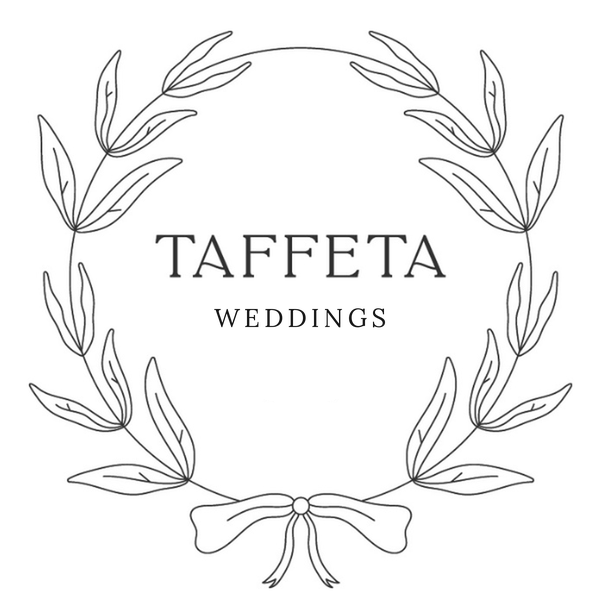
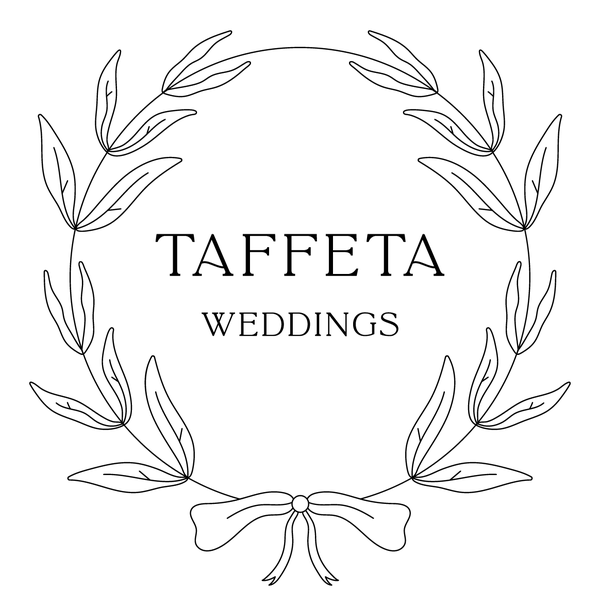
Bridal homepage: use the real Taffeta Weddings wreath
Claude-Session: https://claude.ai/code/session_01CftrBNeWMAXhAWPNKztdGf

diff --git a/weddings/index.html b/weddings/index.html
@@ -1032,7 +1032,7 @@ function renderHome(){
   const box=$("#view-home");if(!box||!ROLE)return;
   const name=myName(),first=String(name).trim().split(/\s+/)[0]||"",k=first.toLowerCase(),ph=lsGet(photoKey());
   const today=new Date().toLocaleDateString("en-US",{weekday:"long",month:"long",day:"numeric"});
-  let h='<div class="hhome"><button type="button" class="crest" id="hCrest" aria-label="'+(ph?"Change your photo":"Add your photo")+'">'+(ph?'<img class="me" alt="" src="'+ph+'">':'')+'<img class="w'+(ph?' over':'')+'" src="wreath-weddings.png" alt="Taffeta Weddings"></button>';
+  let h='<div class="hhome"><button type="button" class="crest" id="hCrest" aria-label="'+(ph?"Change your photo":"Add your photo")+'">'+(ph?'<img class="me" alt="" src="'+ph+'">':'')+'<img class="w'+(ph?' over':'')+'" src="wreath-weddings.png?v=2" alt="Taffeta Weddings"></button>';
   if(ROLE==="office"&&!name){
     h+='<div class="whois"><div class="hhi"><span>Who’s this?</span></div><div class="row">'+OFFICE_PEOPLE.map(n=>'<button type="button" class="btn ghost" data-who="'+n+'">'+n+'</button>').join("")+'</div></div></div>';
   }else{
